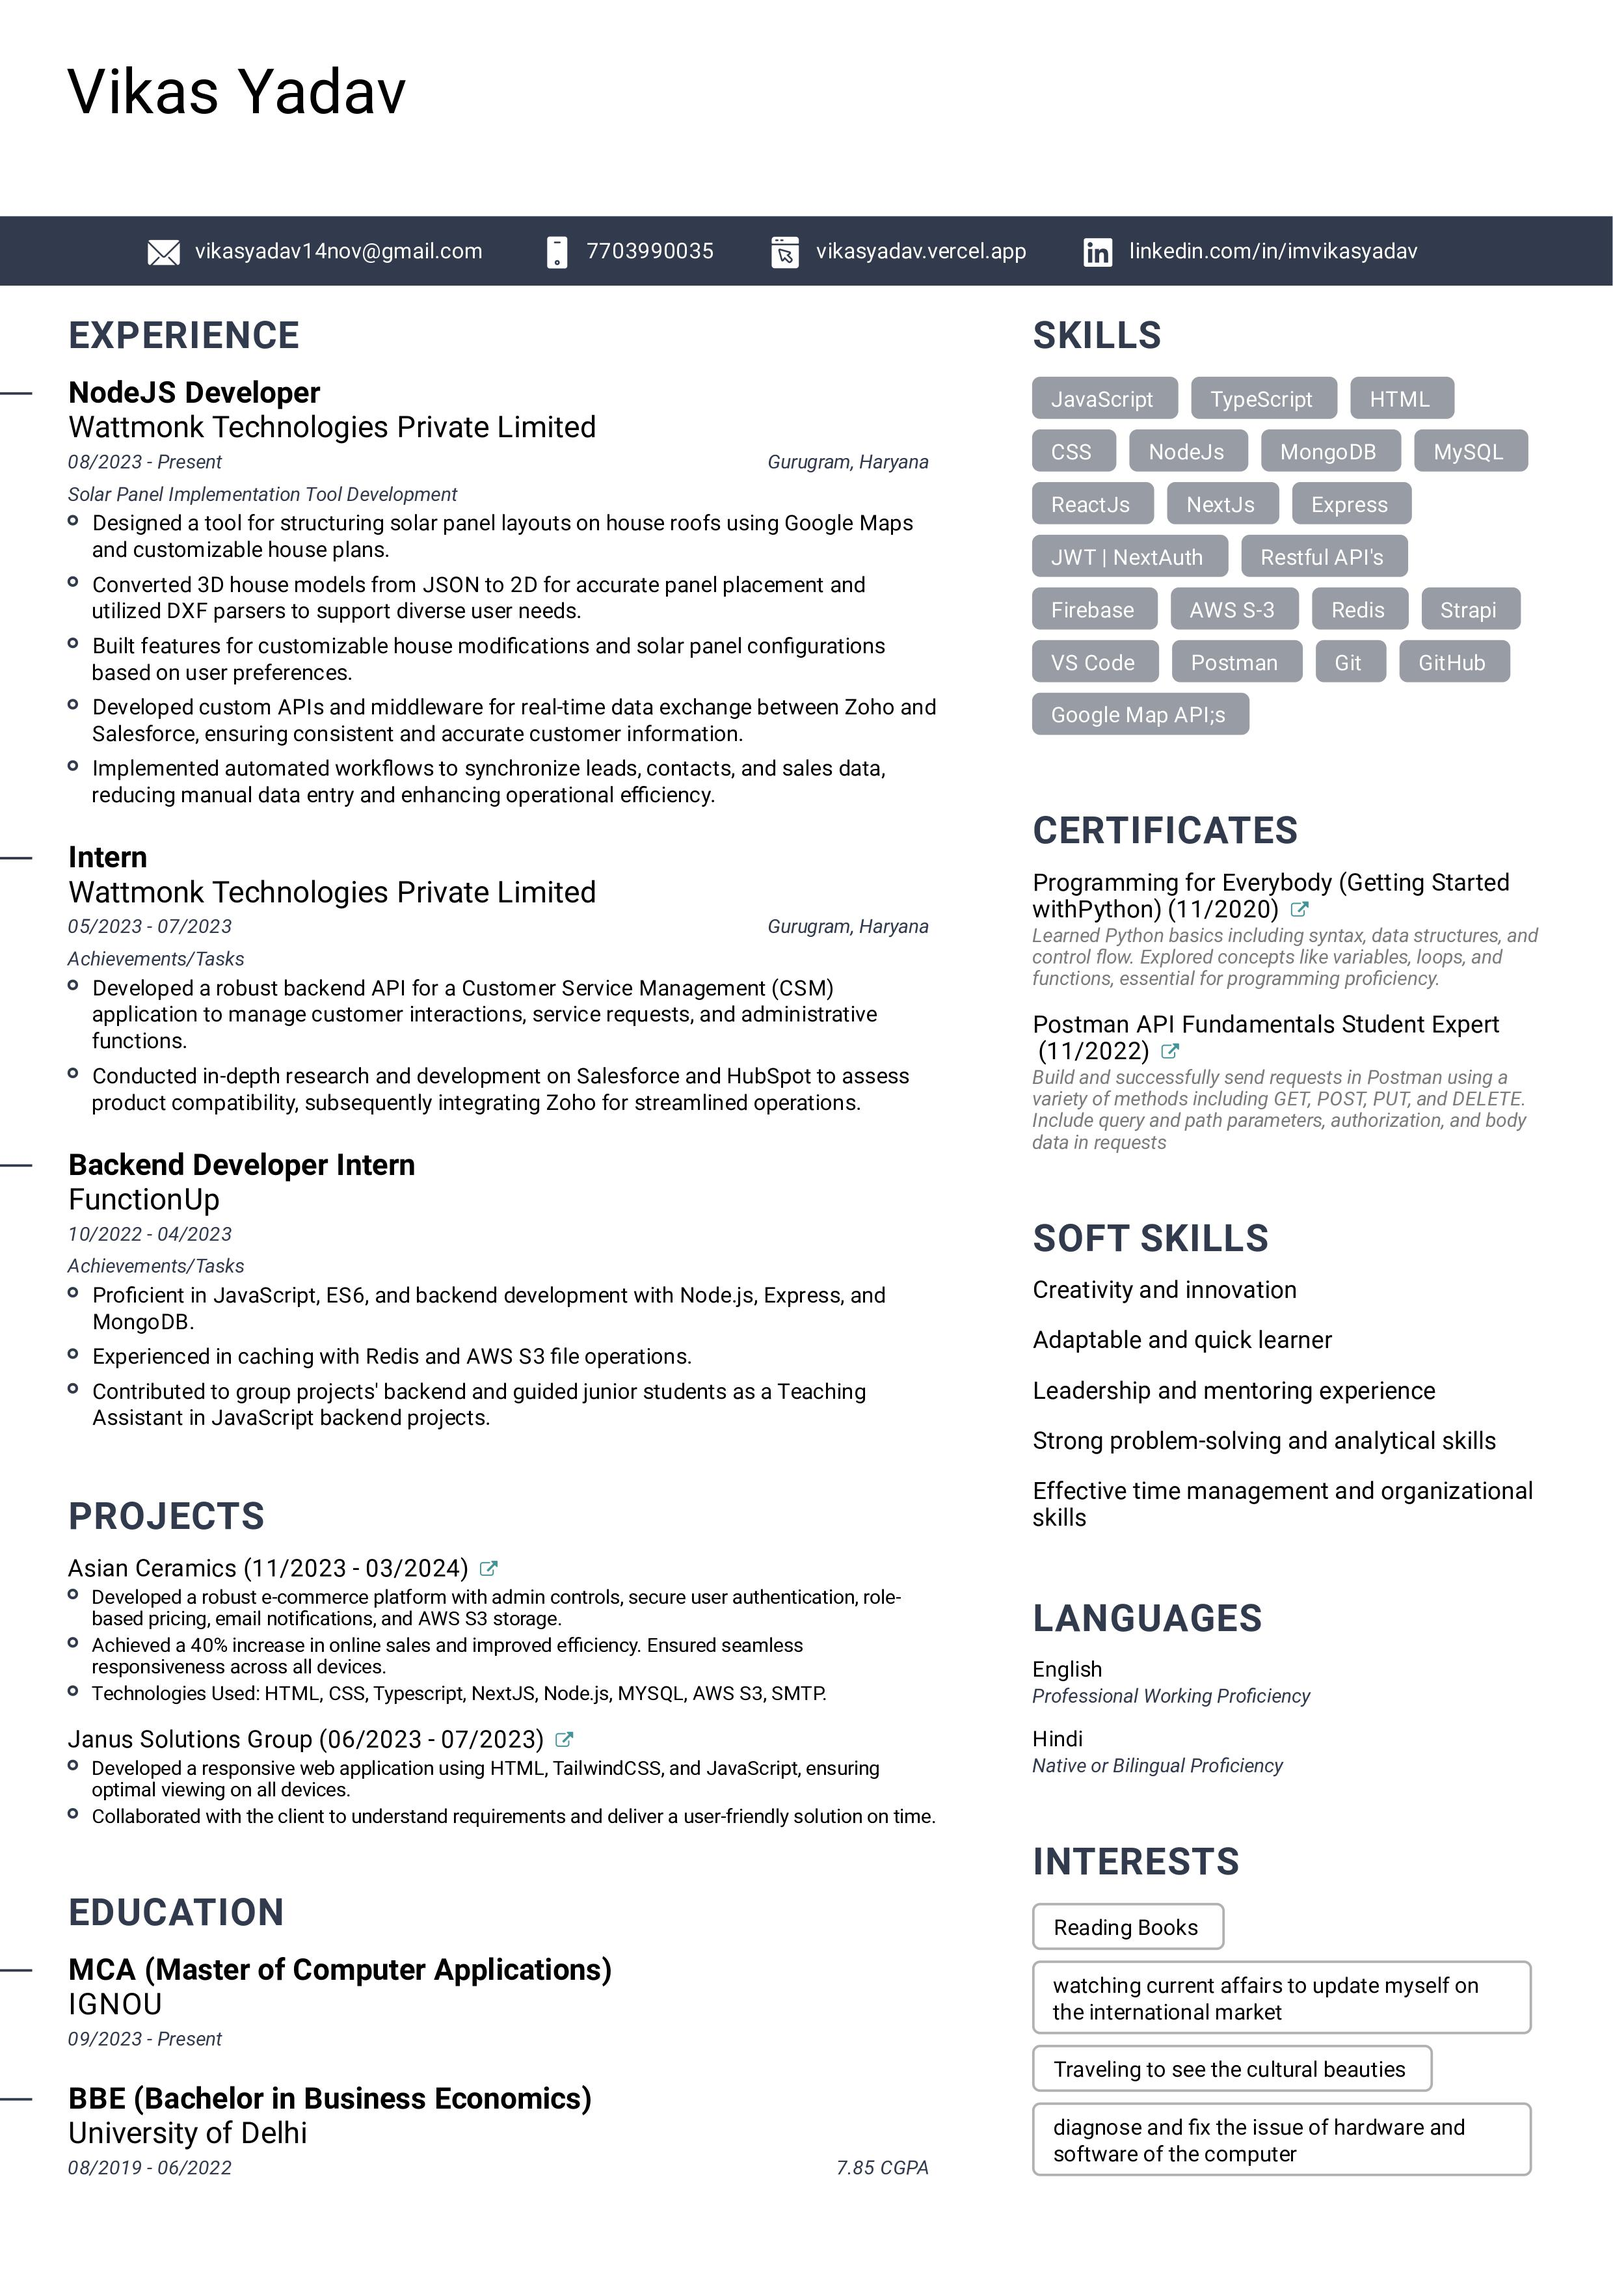
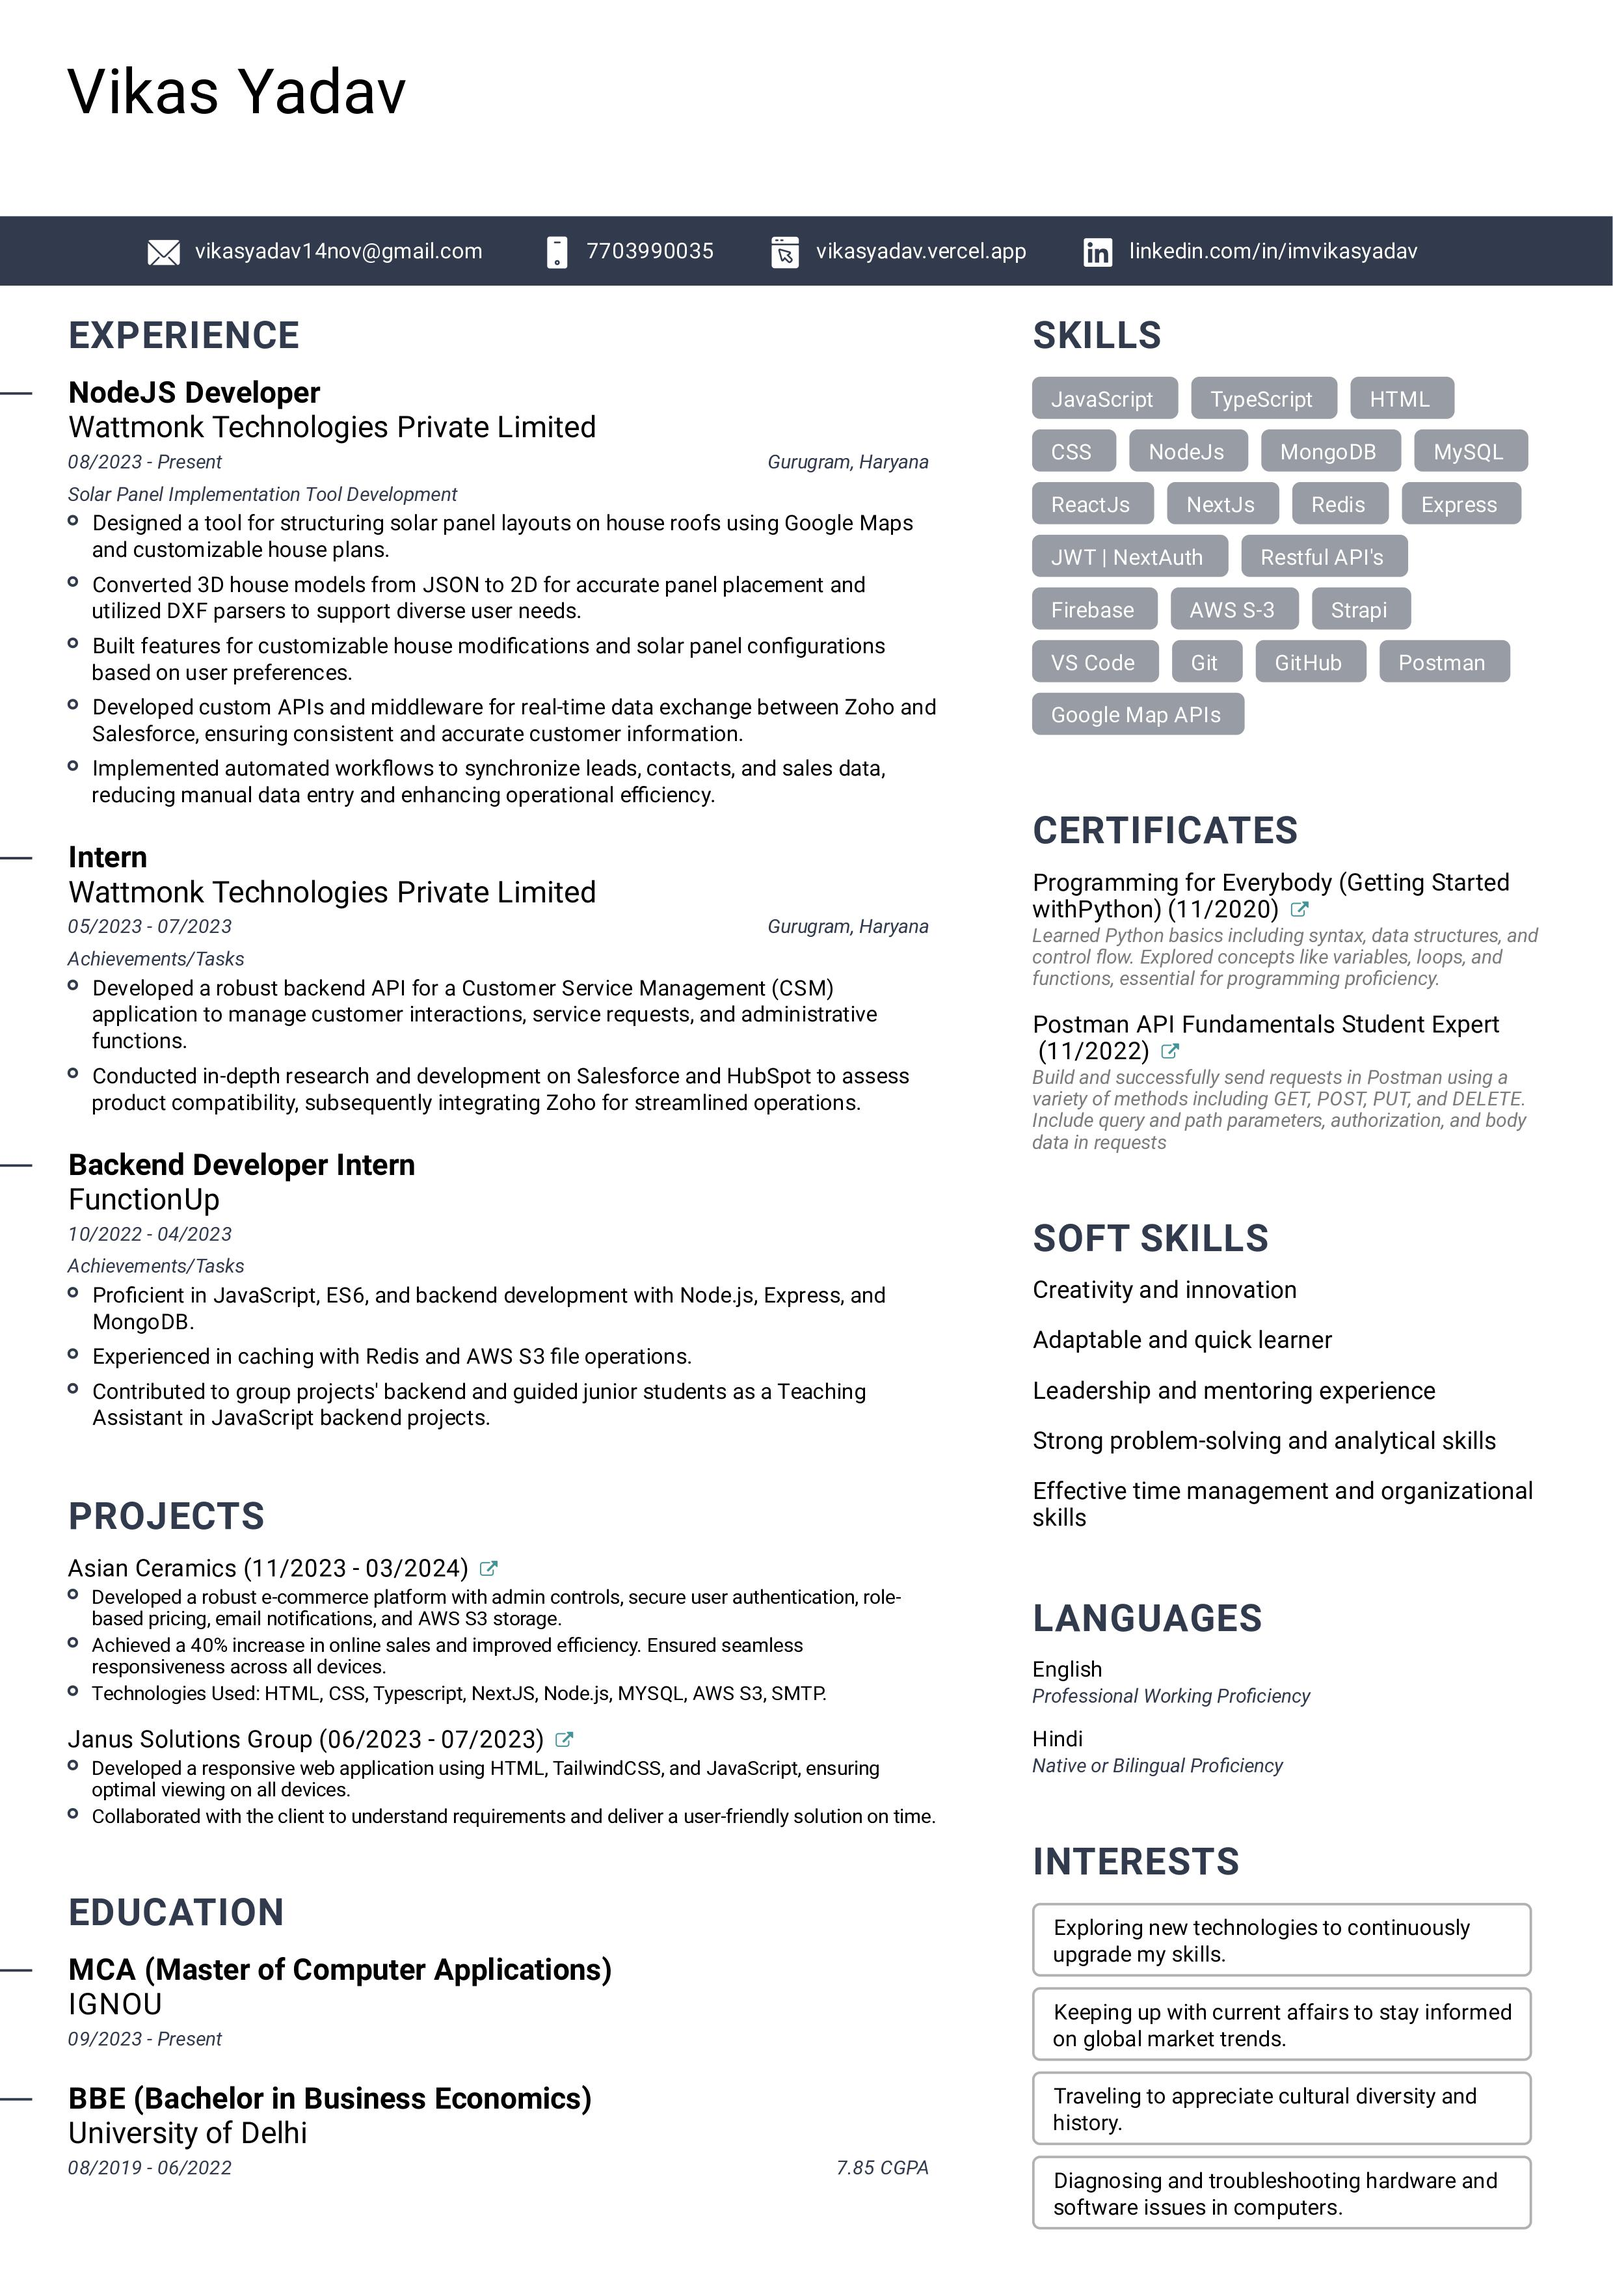
some fixes

Changed region(s): [[0.652, 0.8387, 0.9315, 0.994], [0.7452, 0.1864, 0.9625, 0.3106]]

diff --git a/pages/janussolutionsgroup.jsx b/pages/janussolutionsgroup.jsx
@@ -1,6 +1,6 @@
 import Image from 'next/image';
 import React from 'react';
-import BlogImg from '../public/assets/projects/Blog-Management.jpeg';
+import JanusImg from '../public/assets/projects/Janus.png';
 import { RiRadioButtonFill } from 'react-icons/ri';
 import Link from 'next/link';
 
@@ -13,7 +13,7 @@ const Blogging = () => {
           className='absolute z-1'
           layout='fill'
           objectFit='cover'
-          src={BlogImg}
+          src={JanusImg}
           alt='/'
         />
         <div className='absolute top-[70%] max-w-[1240px] w-full left-[50%] right-[50%] translate-x-[-50%] translate-y-[-50%] text-white z-10 p-2'>
@@ -35,10 +35,10 @@ const Blogging = () => {
             fostering meaningful connections and potential collaborations.
           </p>
           <p>
-            For more info about the project checkout the Github link given below
+            To view the project visit on the link given below
           </p>
           <a
-            href='https://janussolutionsgroup.com/'
+            href='https://janus-nine.vercel.app/'
             target='_blank'
             rel='noreferrer'
           >

diff --git a/components/Navbar.jsx b/components/Navbar.jsx
@@ -56,13 +56,9 @@ const Navbar = () => {
     >
       <div className='flex justify-between items-center w-full h-full px-2 2xl:px-16'>
         <Link href='/'>
-            <Image
-              src={NavLogo}
-              alt='/'
-              width='125'
-              height='50'
-              className='cursor-pointer'
-            />
+          <h1 className='text-[#5651e5] text-3xl'>
+            Vikas
+          </h1>
         </Link>
         <div>
           <ul style={{ color: `${linkColor}` }} className='hidden md:flex'>
@@ -114,12 +110,12 @@ const Navbar = () => {
           <div>
             <div className='flex w-full items-center justify-between'>
               <Link href='/'>
-                  <Image
-                    src={NavLogo}
-                    width='87'
-                    height='35'
-                    alt='/'
-                  />
+                <Image
+                  src={NavLogo}
+                  width='87'
+                  height='35'
+                  alt='/'
+                />
               </Link>
               <div
                 onClick={handleNav}

diff --git a/components/chatBot.jsx b/components/chatBot.jsx
@@ -143,7 +143,7 @@ const ChatBot = () => {
         )
       },
       bye: { content: 'Goodbye! 🙋♂ Have a great day!' },
-      default: { content: 'I am sorry 😥, but I am not able to understand your message.' },
+      default: { content: "I'm sorry 😥, but I didn't quite understand that." },
     };
     userInput = userInput.toLowerCase();
     if (userInput in BOT_RESPONSES) {

diff --git a/pages/asian-ceramics.jsx b/pages/asian-ceramics.jsx
@@ -39,7 +39,7 @@ const Blogging = () => {
             communication and storage capabilities, ensuring a seamless user experience.
           </p>
           <p>
-            For more info about the project checkout the Github link given below
+            To view the project visit on the link given below
           </p>
           <a
             href='https://asian-ceramics.vercel.app/'
